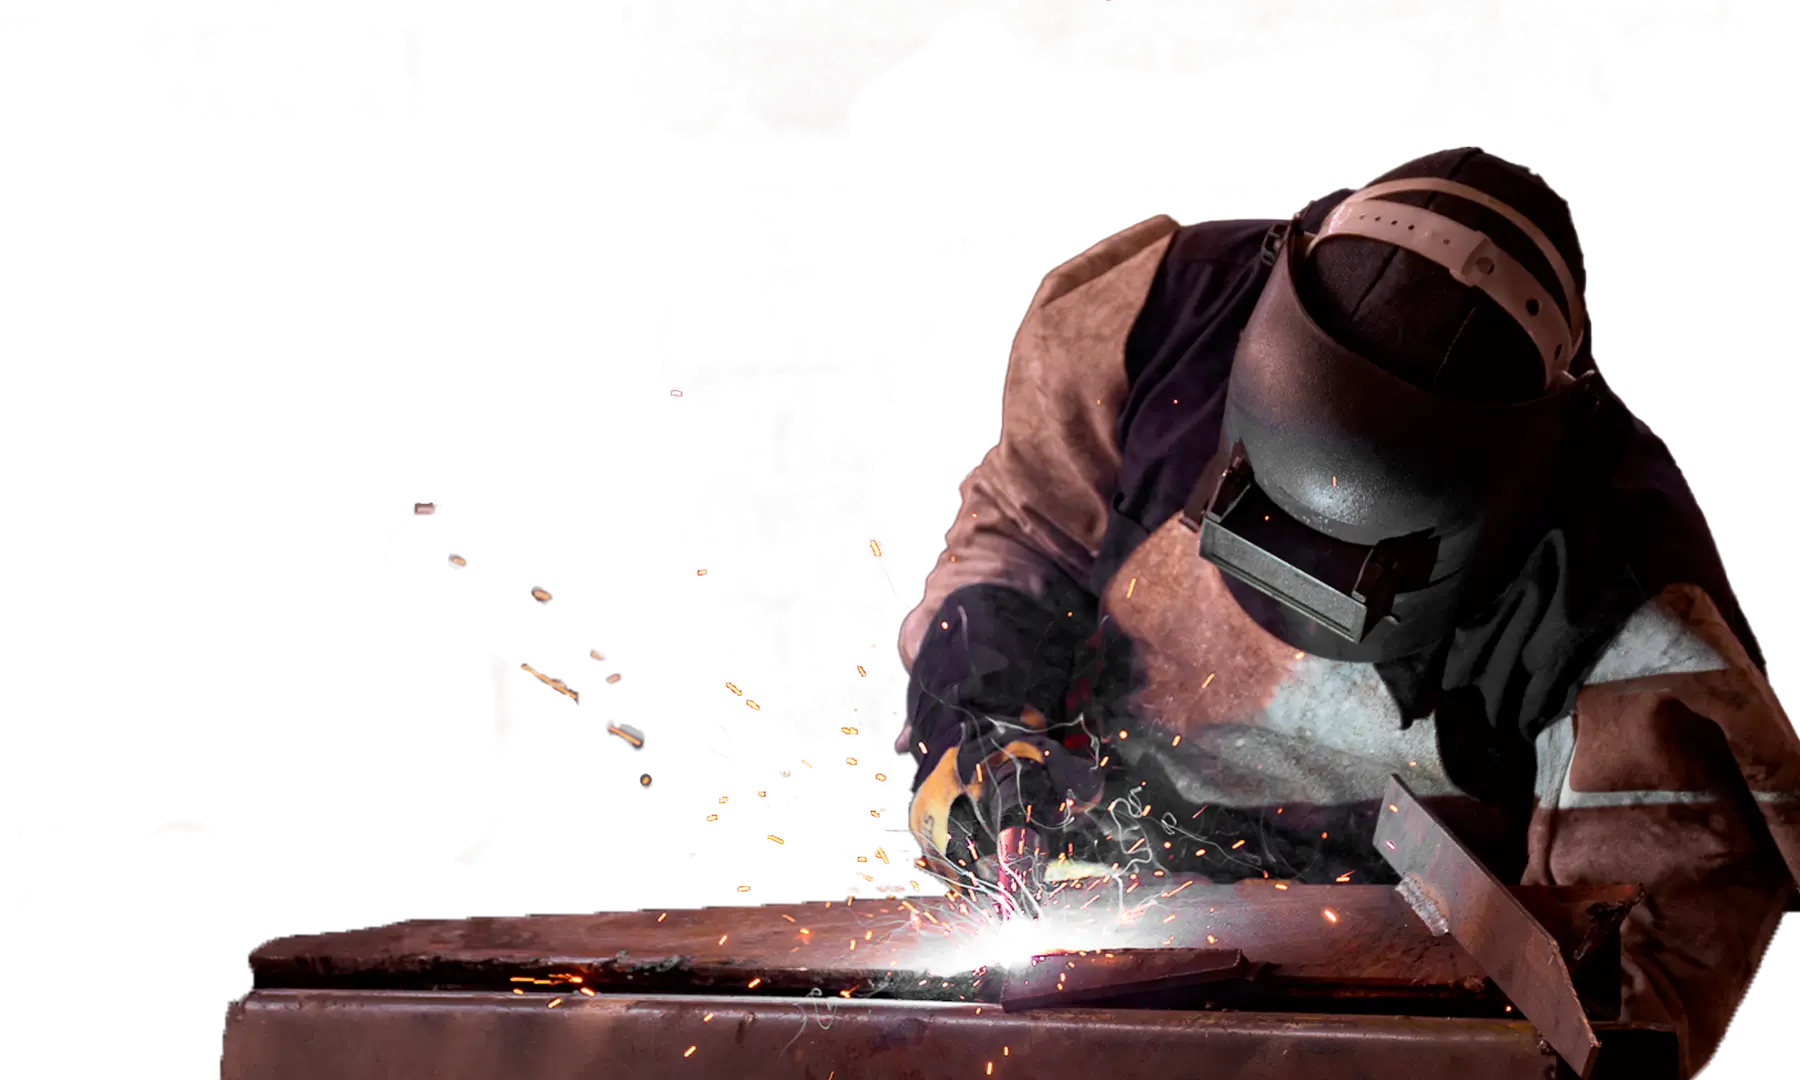
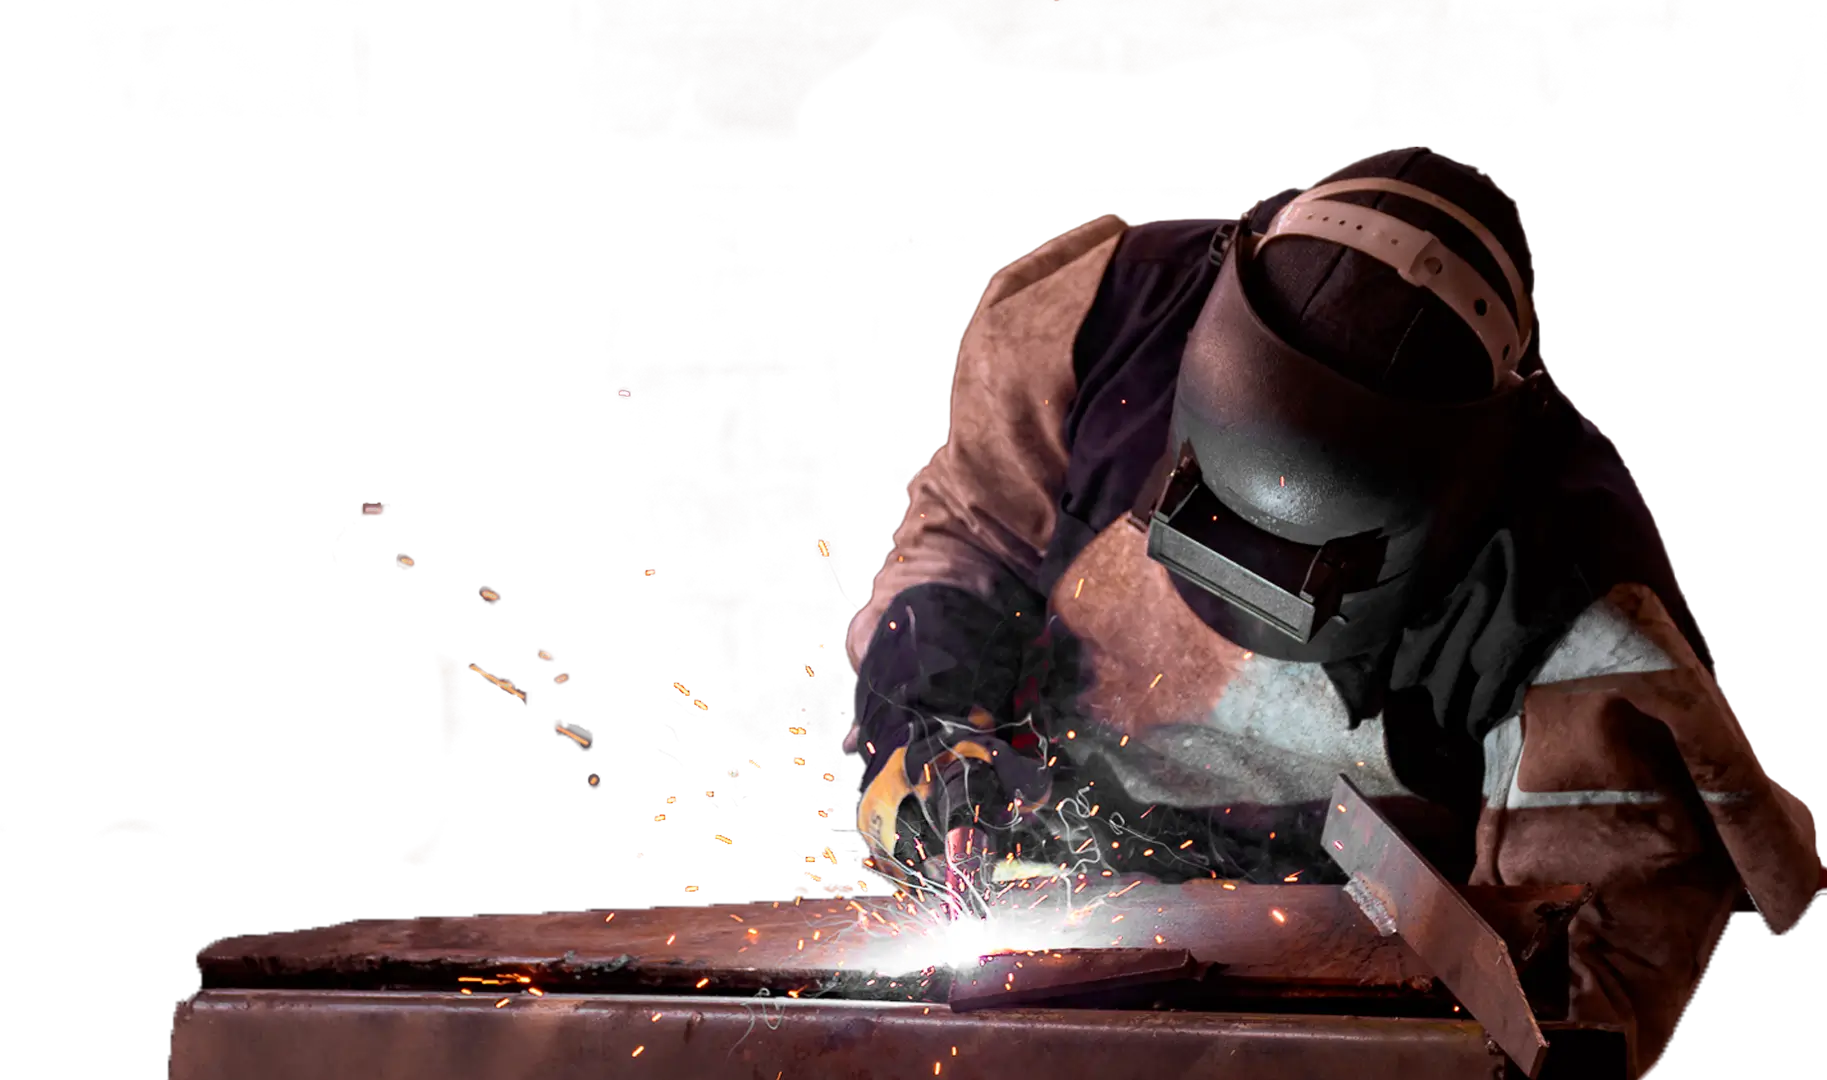
🍱 Update welder animation and width

diff --git a/src/app/views/home/banner/banner.scss b/src/app/views/home/banner/banner.scss
@@ -3,7 +3,7 @@
 :host {
   display: flex;
   width: 100vw;
-  min-height: min(100vh, 108rem);
+  min-height: min(100vh);
   justify-content: center;
   overflow: hidden;
   position: relative;
@@ -30,10 +30,10 @@ section {
 
   .welder-layer {
     position: absolute;
-    right: 0; // -87px
+    right: 0;
     bottom: 0;
     z-index: 1;
-    width: 80vw;
+    width: min(90vw, 155rem);
     max-width: 100vw;
     height: auto;
     pointer-events: none;

diff --git a/src/app/shared/reviews-swiper/reviews-swiper.scss b/src/app/shared/reviews-swiper/reviews-swiper.scss
@@ -2,7 +2,7 @@
 @use 'mixins' as *;
 
 :host {
-  display: block; // test
+  display: block;
   width: 100%;
 }
 

diff --git a/src/app/views/home/banner/banner.ts b/src/app/views/home/banner/banner.ts
@@ -80,7 +80,7 @@ export class Banner {
     this.parallaxTrigger = ScrollTrigger.create({
       trigger: bannerElement,
       start: 'top top',
-      end: '80% top',
+      end: '200% top',
       scrub: true,
       invalidateOnRefresh: true,
       onUpdate: (self) => {